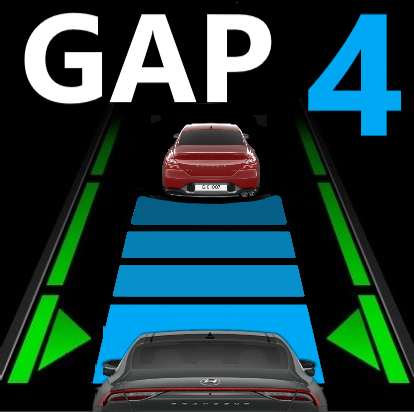
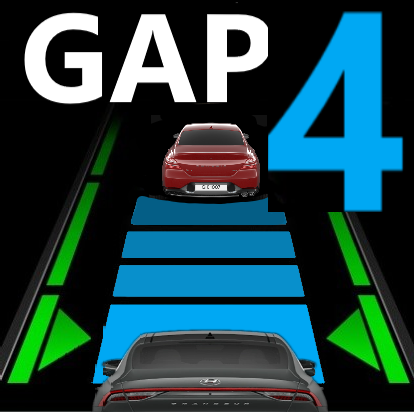
change UI position bet. Gap & Gear

Changed region(s): [[0.6377, 0.0291, 0.9855, 0.5243], [0.6377, 0.466, 0.6957, 0.5243], [0.6377, 0.0583, 0.6667, 0.1456]]

diff --git a/selfdrive/ui/paint.cc b/selfdrive/ui/paint.cc
@@ -417,8 +417,8 @@ static void ui_draw_gear( UIState *s ) {
 
   const int w = 180;
   const int h = 180;
-  const int x = 15*2 + 180;
-  const int y = 700;
+  const int x = 15; //15*2 + 180;
+  const int y = 680;
   const int gear_num_x = x + 90 + 60;
   const int gear_num_y = y + 90 + 40;
   int ngetGearShifter = int(scene.getGearShifter);
@@ -427,7 +427,7 @@ static void ui_draw_gear( UIState *s ) {
 
   // NVGcolor nColor = COLOR_WHITE;
   nvgFontFace(s->vg, "sans-bold");
-  nvgFontSize(s->vg, 120);
+  nvgFontSize(s->vg, 100);
   nvgFillColor(s->vg, COLOR_GREEN);
   ui_draw_image(s, {x, y, w + 20, h}, "gear_BG", 0.6f);
 
@@ -467,7 +467,7 @@ static void ui_draw_vision_scc_gap(UIState *s) {
   const int w = 180;
   const int h = 180;
   const int x = 15;
-  const int y = 700;
+  const int y = 880;
 
   if(gap <= 0) {ui_draw_image(s, {x, y, w, h}, "lead_car_dist_0", 0.3f);}
   else if (gap == 1) {ui_draw_image(s, {x, y, w, h}, "lead_car_dist_1", 0.5f);}
@@ -1266,7 +1266,7 @@ static void ui_draw_blindspot_mon(UIState *s) {
 }
 
 static void ui_draw_vision_footer(UIState *s) {
-  ui_draw_vision_face(s);
+  // ui_draw_vision_face(s);
   if (!s->scene.comma_stock_ui){    
     ui_draw_vision_scc_gap(s);
     ui_draw_gear(s);    
